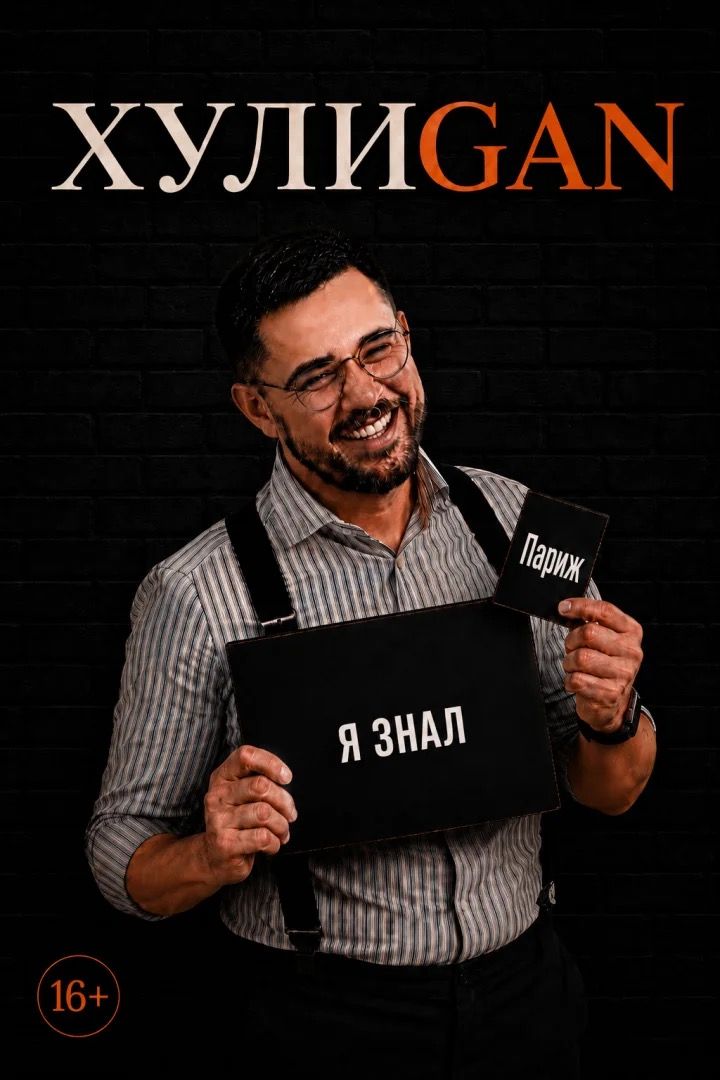
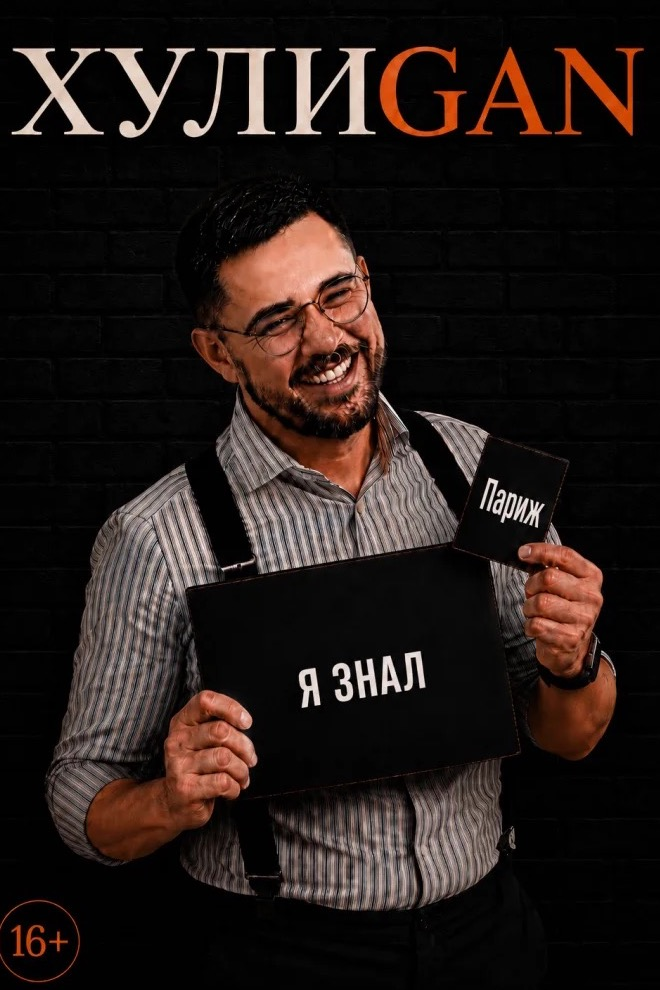
ХУЛИgan: обрезан чёрный верх картинки (убрана «арка» над надписью)
Постер не был обрезан кодом — «арка» это чёрная зона кирпичной стены НАД
надписью ХУЛИgan в самой картинке, которая на скруглённых углах карточки
читалась как арка. Обрезал верхние 55px картинки (huligan.webp/jpg/png,
660×990=2:3) — надпись теперь у верха, чёрной зоны нет. Версия ?v=10. sw v53.

Changed region(s): [[0.0, 0.2121, 0.9394, 1.0], [0.0303, 0.0303, 0.9697, 0.1818], [0.4545, 0.6364, 0.6667, 0.7273]]

diff --git a/events/index.html b/events/index.html
@@ -628,7 +628,7 @@
           <img src="../concerts/images/secret.webp?v=7" width="720" height="1080" decoding="async" alt="Афиша шоу Секрет">
         </a>
         <a class="swiper-slide" href="../concerts/huligan/index.html" aria-label="Шоу Хулиган — описание и билеты">
-          <img src="../concerts/images/huligan.webp?v=9" width="720" height="1080" decoding="async" alt="Афиша шоу ХУЛИgan">
+          <img src="../concerts/images/huligan.webp?v=10" width="720" height="1080" decoding="async" alt="Афиша шоу ХУЛИgan">
         </a>
         <a class="swiper-slide" href="../concerts/matvey/index.html" aria-label="Спасти Матвея — описание и билеты">
           <img src="../concerts/images/matvey.webp?v=8" width="720" height="1080" decoding="async" alt="Афиша спектакля Спасти Матвея">

diff --git a/concerts/index.html b/concerts/index.html
@@ -880,7 +880,7 @@
   <section class="stage" id="shows" aria-label="Афиша авторских шоу">
     <div class="shows">
       <a class="show show--huligan" href="/concerts/huligan/index.html" aria-label="Шоу Хулиган — описание и билеты">
-        <img class="show__poster" src="/concerts/images/huligan.webp?v=9" width="720" height="1080" loading="eager" fetchpriority="high" decoding="async" alt="Шоу ХУЛИgan" />
+        <img class="show__poster" src="/concerts/images/huligan.webp?v=10" width="720" height="1080" loading="eager" fetchpriority="high" decoding="async" alt="Шоу ХУЛИgan" />
         <div class="show__frame"></div>
         <div class="show__overlay"></div>
         <div class="show__content">

diff --git a/concerts/huligan/index.html b/concerts/huligan/index.html
@@ -1069,7 +1069,7 @@
     <section class="hero" id="huliganHero">
       <div class="show-hero-shell">
         <div class="poster-wrap reveal" id="huliganPoster">
-          <img class="poster" src="/concerts/images/huligan.webp?v=9" width="540" height="652" loading="eager" fetchpriority="high" decoding="async" alt="Афиша магического стендапа «ХУЛИgan»" />
+          <img class="poster" src="/concerts/images/huligan.webp?v=10" width="540" height="652" loading="eager" fetchpriority="high" decoding="async" alt="Афиша магического стендапа «ХУЛИgan»" />
         </div>
         <div class="show-hero-copy">
           <div class="eyebrow reveal d-1">Магический стендап</div>

diff --git a/sw.js b/sw.js
@@ -1,5 +1,5 @@
 // Простой офлайн-кэш шелла
-const CACHE_NAME = 'kostyuk-ecosystem-v52';
+const CACHE_NAME = 'kostyuk-ecosystem-v53';
 const ASSETS = [
   '/',
   '/index.html',
